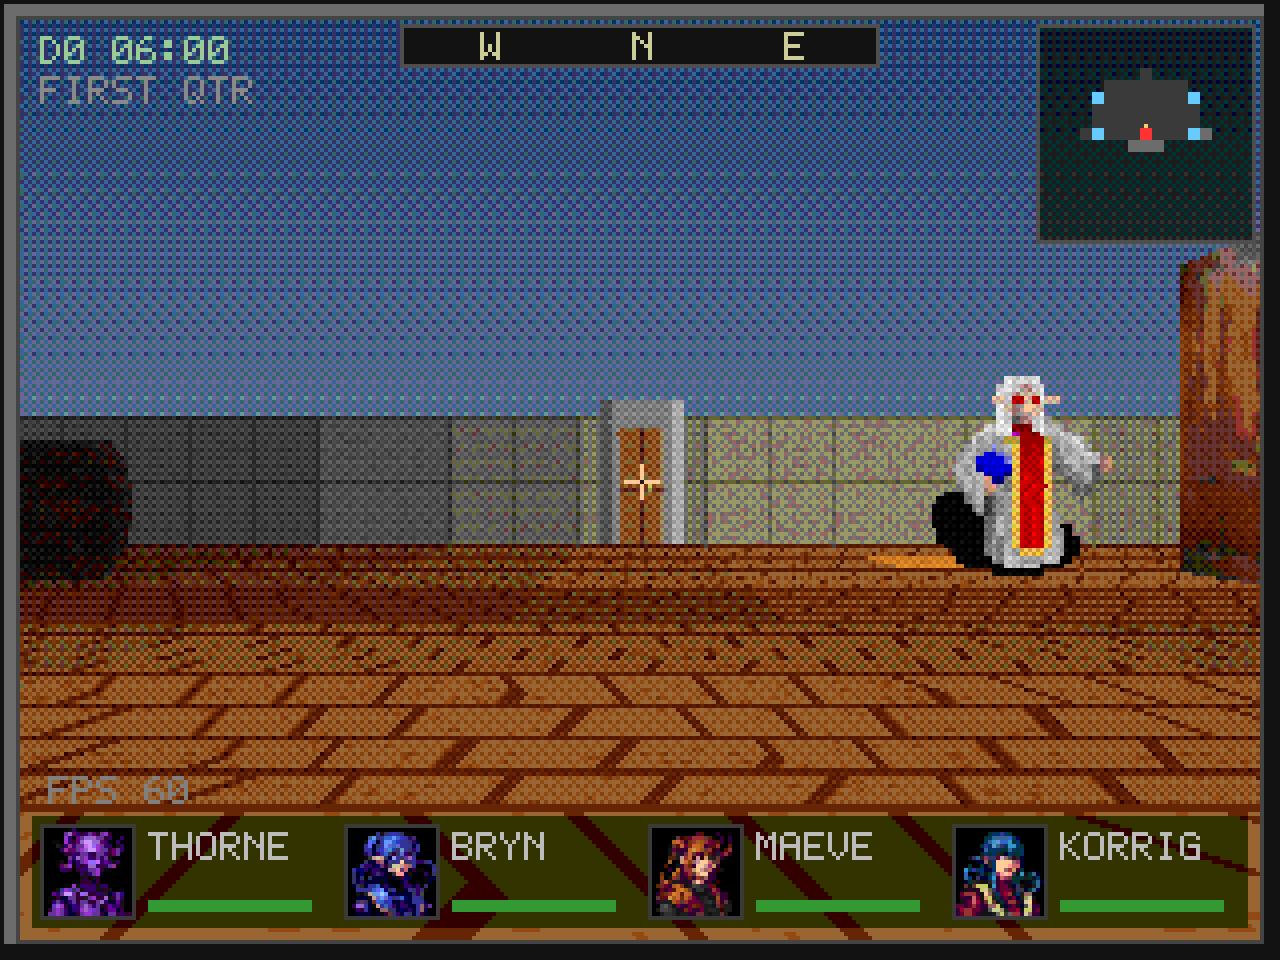
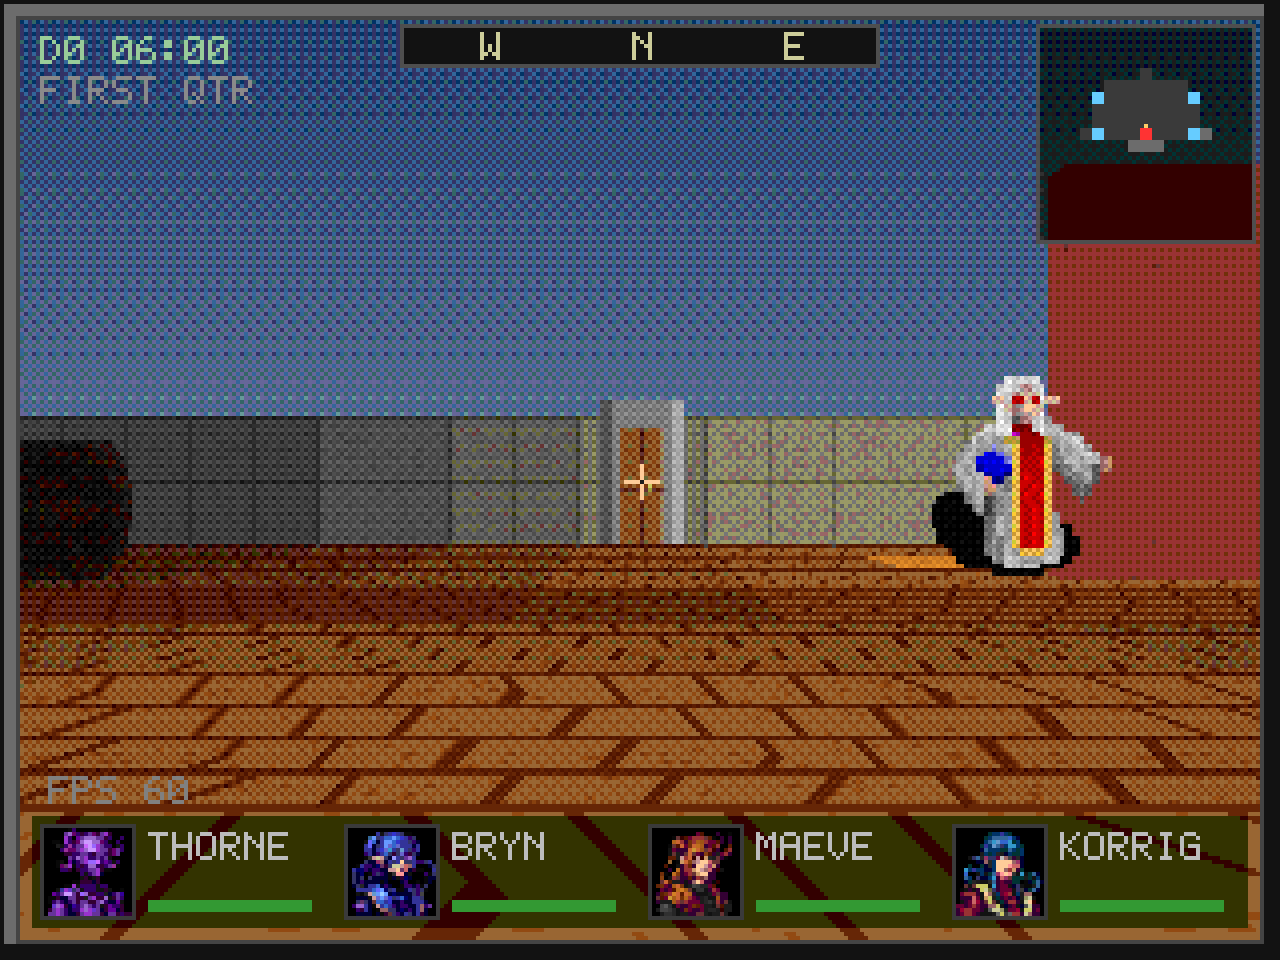
Show carved dungeons in the README screenshots
Point the banner and crypt gallery shots at a procedurally carved crypt
cell, and add a carved cathedral, so the README shows the carve-and-clad
layout rather than a hand-authored lump. The zone shots (town, seaside,
forest, grotto, infernal) stay as authored. Regenerate the whole set.

Changed region(s): [[0.8125, 0.1562, 1.0, 0.625]]

diff --git a/README.md b/README.md
@@ -16,7 +16,7 @@ polygon renderer is in progress alongside the raycaster.
 The images are the 320x240 framebuffer upscaled 4x with nearest-neighbour
 filtering, the same way the game presents it.
 
-![A crypt corridor with the compass, crosshair, automap and party strip](screenshots/hero.png)
+![A carved crypt corridor with the compass, crosshair, automap and party strip](screenshots/hero.png)
 
 The six zones each wear their own tileset, one colour scheme over the shared
 wall and floor patterns, so even a generated map themes from its area.
@@ -26,9 +26,15 @@ wall and floor patterns, so even a generated map themes from its area.
 | ![The town hub](screenshots/town.png) | ![The seaside](screenshots/seaside.png) |
 | The town hub, where the party starts near the elder and the tavern. | The seaside, with its ferryman and a wreck down the strand. |
 | ![The forest](screenshots/forest.png) | ![The crypt](screenshots/crypt.png) |
-| The forest, a hedge avenue running into the fog. | The torch-lit crypt, a glowing light tile on the flagstones. |
+| The forest, a hedge avenue running into the fog. | A carved crypt, its floor stepping between heights under the mausoleum kit. |
 | ![The grotto](screenshots/grotto.png) | ![The infernal depth](screenshots/infernal.png) |
 | The glowing grotto, a cave of warm stone. | The infernal depth, a rust corridor falling into the dark. |
+
+A generated dungeon carves itself on the kit's module grid, so a procedural
+level clads from whole native pieces with no ragged fillers. The cathedral theme
+raises a nave and vaulted bays from the same carve.
+
+![The carved cathedral nave](screenshots/cathedral.png)
 
 The party meets the folk of each place, runs into what walks the halls, and
 fights foes drawn up in two ranks.
